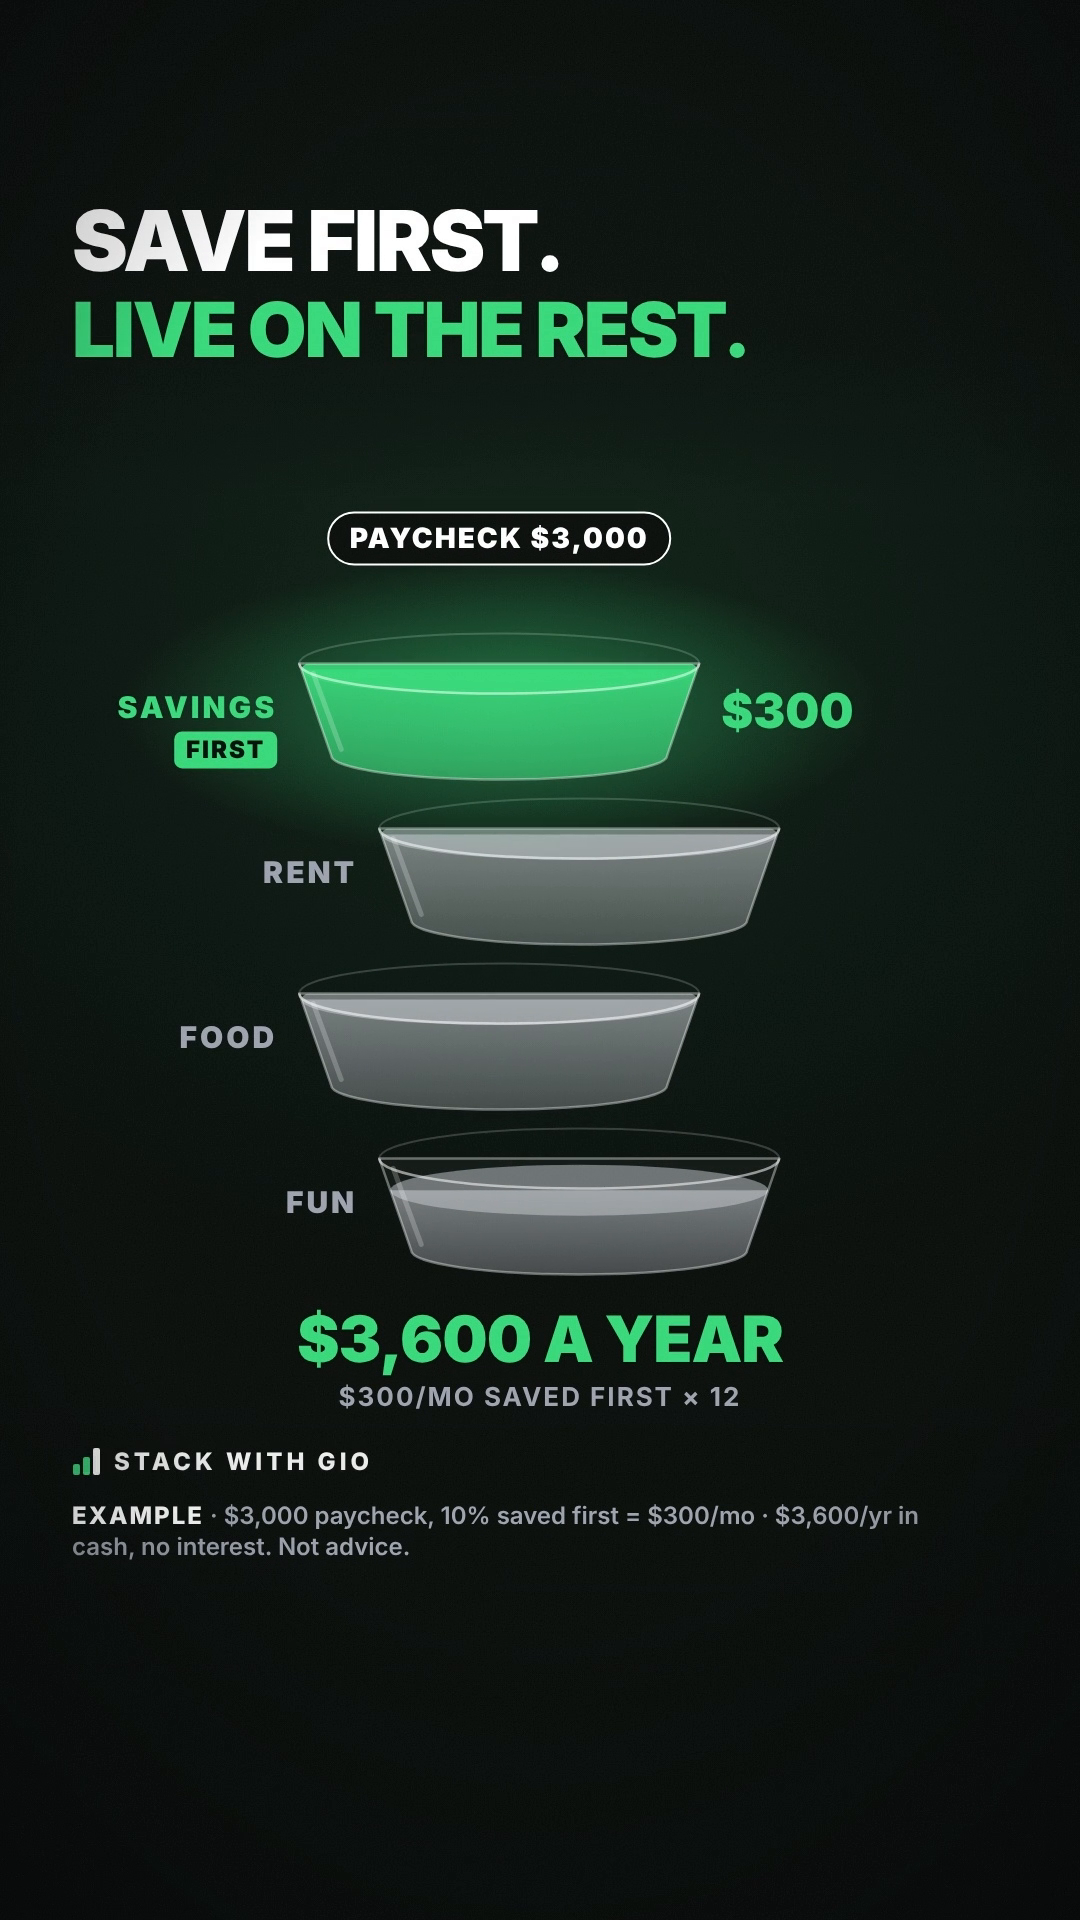
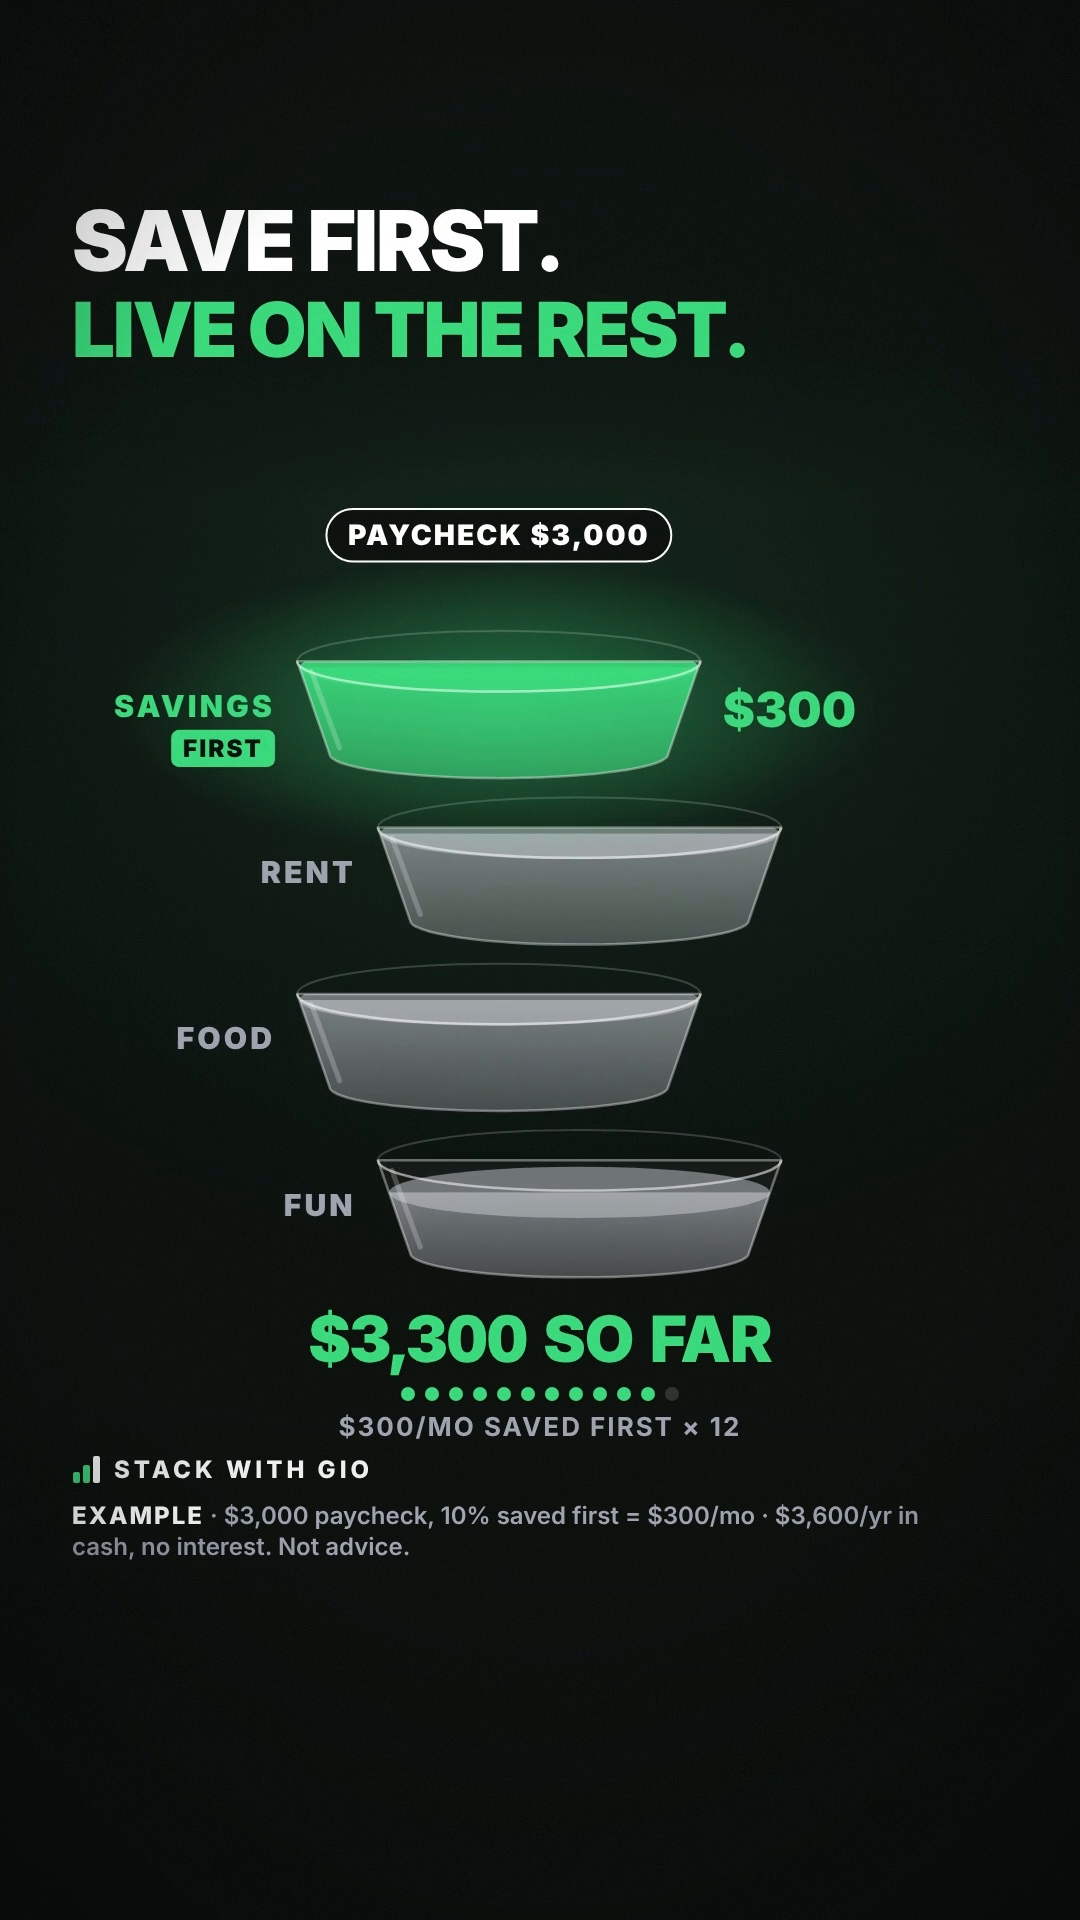
DMM-003 v04 cover; README quality-system section
Claude-Session: https://claude.ai/code/session_017GfieaoWp34hwJYfcaKVq3

diff --git a/daily-money-motion/README.md b/daily-money-motion/README.md
@@ -56,6 +56,11 @@ node daily-money-motion/scripts/dmm.mjs status DMM-002 POST_READY "QC 9.1, all c
 ```
 Statuses: RESEARCHING → REFERENCE_SELECTED → SCRIPT_READY → BUILDING → REVIEWING → NEEDS_FIXING | POST_READY → QUEUED → PUBLISHED (or FAILED). The CLI refuses to queue anything that isn't POST_READY, to queue or publish the same episode twice, or to create a second episode for the same date. Every action is appended to `logs/pipeline.log`. Retry = run `render` again (a new version; earlier versions are kept).
 
+## Quality system
+- `video/scripts/daily/qc_episode.py <ID> <mp4> [--stt]` runs automatically after every `render.sh`. It measures export, audio (voice untouched, SFX-to-voice ratio, no music, peaks), speech-to-text intelligibility and sync, caption spelling, frame-0, hook motion, jumps, static holds, safe-zone bands and visual similarity to past episodes → `QC_AUTO.md`.
+- `dmm.mjs gate <ID> <score> <qc_auto.json>` is the only way to get **READY FOR MY REVIEW** (≥ 9.0 and 0 FAIL); otherwise **NEEDS FIXING**.
+- `CHECKLIST.md` is the living checklist and recurring-problem log; `feedback.json` holds the creator's reviews and real analytics.
+
 ## Audio default (from DMM-003 v03)
 **Stack voice narration + very subtle SFX + no background music.** The creator adds music on each platform. Measured targets: SFX about 30 dB+ below the voice during speech; digital silence wherever no effect is scheduled; the voice track untouched (gain about 0 dB vs the ElevenLabs file). See `config.json → audio`.
 
